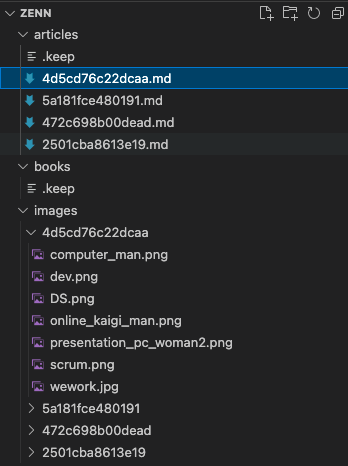
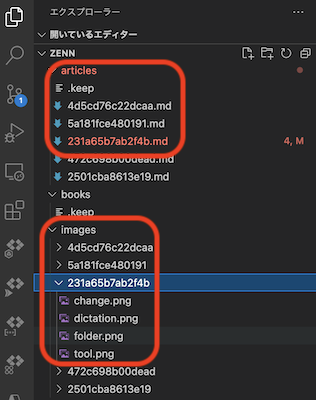
update

diff --git a/articles/231a65b7ab2f4b.md b/articles/231a65b7ab2f4b.md
@@ -8,7 +8,7 @@ published: false
 
 
 ### はじめに
-平下CTO@sweeepです。メンバーから要請があったのでzennの記事のラクに書くための私の方法を書いてみようと思います（zenn書き始めたばかりなので、よりよいやり方があれば教えて欲しいです）。
+平下CTO@sweeepです。最近弊社では[テックブログ | sweeep Blog Hub](https://tech-blog.sweeep.ai/)をはじめました。こちらは個人のテックブログを紐付けるHubとなっていて、大半のメンバーはzennで記事を書きはじめたところです（わたしもですが）。そこで、メンバーから要請があったのでzennの記事のラクに書くための私の方法を書いてみようと思います（zenn書き始めたばかりなので、よりよいやり方があれば教えて欲しいです）。
 
 ### まずはブログネタのインプット
 まずはインプットですが、弊社ではSlackのblogチャンネルに弊社と技術スタックが似ている、または先をいっている主要なテックブログからRSSフィードを通知して定期的にチェックしています。定期的にインプットしている中で良さそう/似たようなテーマをストックしておいて、あとでその内容をオリジナルの内容で書いたりします。もちろんゼロから考えて投稿することもありますが、似たようなテーマからというのは入りやすいと思います。
@@ -28,6 +28,7 @@ published: false
 * [ICOOON MONO](https://icooon-mono.com/)：商用利用可能なアイコン素材がフリーでダウンロードできるサイト
 * [絵文字](https://getemoji.com/)：zennのemoji設定用
 * [zenn人気トピック](https://zenn.dev/topics)：zennのtopics設定用
+
 あとは弊社の宣材用写真なども社内では共有しています。
 
 ### 引用に関して
@@ -48,14 +49,57 @@ sweeep株式会社の募集・採用・求人情報 - Wantedly https://www.wante
 
 * 画像サイズ調整方法
 バラバラな画像サイズを揃えるためにはMacのデフォルトのプレビュー表示をよく利用します。以下のキャプチャにあるように①編集ボタンを押して編集ツール表示し、②サイズ変更ボタンでピクセルを調整します（高さを調整することがほとんどです）。画像高さ100〜400ピクセルあたりに統一することが多いです。
-    * ①編集ボタン
+    * ①編集ボタンと②サイズ変更ボタン
     ![](/images/231a65b7ab2f4b/tool.png)
-    * ②サイズ変更ボタン
+    * サイズ変更
     ![](/images/231a65b7ab2f4b/change.png)
 
 * コードブロック
 コード貼り付けの際にバッククオート「\`」を打ち込むのがちょっと面倒なんで、Google辞書に読み「こーど」で単語「\`\`\`\`\`\`」登録して自動変換されるようにしています。zennの記事（Markdown）のコードブロックやMarkdown形式のサイト（GitHubのコメント欄とか）でも使えるので便利です。
 
+### zennとGitHubを爆速で連携
+zennとGitHub連携させるとローカル環境で記事作成でき、ホットリロードや画像の確認がラクになるし、GitHubで管理できるのでオススメします。方法は公式サイトにまとまっていて、連携は難しくないのですが、最低限必要な設定や私のフォルダー管理などをご紹介します。
+
+* まずはここから（[GitHubリポジトリでZennのコンテンツを管理する](https://zenn.dev/zenn/articles/connect-to-github)）
+    1. PublicでGitHubリポジトリ作成
+    2. zennのDeploysから「リポジトリ連携ボタン」押す
+    3. 1で作成したGitHubリポジトリとブランチを選択
+* 次に（[Zenn CLIをインストールする](https://zenn.dev/zenn/articles/install-zenn-cli)）
+    1. Zenn Clitのインストール
+    ```
+    $ npm init --yes
+    $ npm install zenn-cli
+    ```
+    2. 初期設定
+    ```
+    $ cd ${your_zenn_dir}
+    $ npx zenn init
+    ```
+
+    （ここまで初回のみ）
+
+* 記事を作成（[Zenn CLIで記事・本を管理する方法](https://zenn.dev/zenn/articles/zenn-cli-guide)）
+    1. 新規記事用mdファイル作成（記事毎）
+    ```
+    $ cd ${your_zenn_dir}
+    $ npx zenn new:article
+    ```
+    →　slugと呼ばれる${ユニークID}.mdファイルが作成
+    2. 記事の設定や記事作成
+    3. 記事のプレビュー
+    ```
+    $ npx zenn preview
+    ```
+    4. ```http://localhost:8000/```へアクセスしプレビュー確認、修正
+    5. GitHubへpush
+    6. zennで記事確認後公開（記事の設定```published: true```でpushでも公開可能）
+
+* 私のフォルダー管理
+以下が私のフォルダー管理方法です。
+    * /articls/${ユニークID}.mdに記事
+    * /images/\${ユニークID}フォルダー下で画像管理
+    * 画像の埋め込みは\!\[](/images/\${ユニークID}/${画像ファイル})という感じ
+    ![](/images/231a65b7ab2f4b/folder.png)
 
 ### まとめ
 最近はじめたばかりですが、zennの記事をラクに書く方法をご紹介させていただきました。また何かHack見つけたらアップデートしたいと思っています。また、こんな便利なツールとかやり方あるよ、という方はぜひコメントいたでけると助かります！
